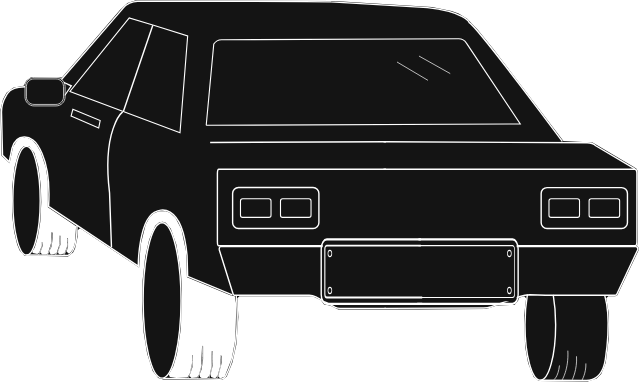
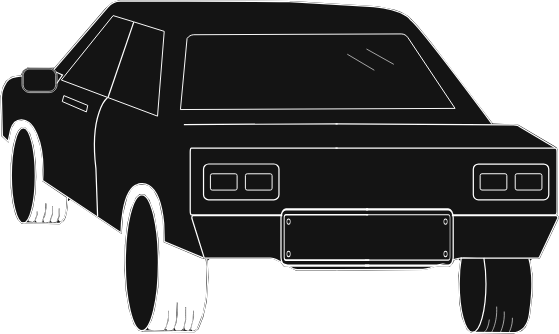
Widen the road again, to where the frame stops it (#151)
22% was not enough: the lanes cleared each other by 2% of a car width,
which reads as touching rather than as separate lanes. 45% puts a gap of
about a quarter of a car width between them.

That is very near the ceiling. The centre lane's own markings reach the
bottom corners of the frame at 48%, so past that the road is drawn wider
than it can be seen and the near end of it is cut off. 45% leaves 12
units of margin.

What it costs, all of it on the outer lanes: a side car now has to stop
at 50% down the frame rather than 54% to stay whole, it is held back for
40% of its loop rather than 34%, and its plate goes from 7.0px to 6.2px
at a 375px section. The centre car, its plate and the roadside are
untouched.

Claude-Session: https://claude.ai/code/session_017ynTvtGuh3qPdfkvciNjhT

diff --git a/css/style.css b/css/style.css
@@ -739,12 +739,12 @@ a {
 @keyframes hwCar_centre{0.0000%{transform:scale(1.00000);opacity:0.000;}4.1667%{transform:scale(0.90882);opacity:0.833;}8.3333%{transform:scale(0.82595);opacity:1.000;}12.5000%{transform:scale(0.75063);opacity:1.000;}16.6667%{transform:scale(0.68219);opacity:1.000;}20.8333%{transform:scale(0.61999);opacity:1.000;}25.0000%{transform:scale(0.56345);opacity:1.000;}29.1667%{transform:scale(0.51208);opacity:1.000;}33.3333%{transform:scale(0.46538);opacity:1.000;}37.5000%{transform:scale(0.42295);opacity:1.000;}41.6667%{transform:scale(0.38438);opacity:1.000;}45.8333%{transform:scale(0.34933);opacity:1.000;}50.0000%{transform:scale(0.31748);opacity:1.000;}54.1667%{transform:scale(0.28853);opacity:1.000;}58.3333%{transform:scale(0.26222);opacity:1.000;}62.5000%{transform:scale(0.23831);opacity:1.000;}66.6667%{transform:scale(0.21658);opacity:0.957;}70.8333%{transform:scale(0.19683);opacity:0.794;}75.0000%{transform:scale(0.17888);opacity:0.646;}79.1667%{transform:scale(0.16257);opacity:0.511;}83.3333%{transform:scale(0.14775);opacity:0.388;}87.5000%{transform:scale(0.13428);opacity:0.277;}91.6667%{transform:scale(0.12203);opacity:0.176;}95.8333%{transform:scale(0.11091);opacity:0.084;}100.0000%{transform:scale(0.10079);opacity:0.000;}}
 .highway__car--centre{left:19.5587%;top:66.7638%;width:61.0573%;height:33.3225%;transform-origin:50.127% -153.810%;background-image:url("../assets/images/hw-car-centre.png");}
 .highway__car--centre .highway__plate{left:31.683%;top:62.098%;width:36.888%;height:7.021%;font-size:2.3962cqw;}
-@keyframes hwCar_left{0.0000%{transform:scale(2.17092);opacity:0.000;}4.1667%{transform:scale(1.97296);opacity:0.000;}8.3333%{transform:scale(1.79306);opacity:0.000;}12.5000%{transform:scale(1.62957);opacity:0.000;}16.6667%{transform:scale(1.48098);opacity:0.000;}20.8333%{transform:scale(1.34594);opacity:0.000;}25.0000%{transform:scale(1.22321);opacity:0.000;}29.1667%{transform:scale(1.11167);opacity:0.000;}33.3333%{transform:scale(1.01031);opacity:0.000;}37.5000%{transform:scale(0.91818);opacity:0.744;}41.6667%{transform:scale(0.83446);opacity:1.000;}45.8333%{transform:scale(0.75837);opacity:1.000;}50.0000%{transform:scale(0.68922);opacity:1.000;}54.1667%{transform:scale(0.62637);opacity:1.000;}58.3333%{transform:scale(0.56926);opacity:1.000;}62.5000%{transform:scale(0.51735);opacity:1.000;}66.6667%{transform:scale(0.47018);opacity:0.957;}70.8333%{transform:scale(0.42731);opacity:0.794;}75.0000%{transform:scale(0.38834);opacity:0.646;}79.1667%{transform:scale(0.35293);opacity:0.511;}83.3333%{transform:scale(0.32075);opacity:0.388;}87.5000%{transform:scale(0.29150);opacity:0.277;}91.6667%{transform:scale(0.26492);opacity:0.176;}95.8333%{transform:scale(0.24077);opacity:0.084;}100.0000%{transform:scale(0.21881);opacity:0.000;}}
-.highway__car--left{left:-0.0564%;top:39.0386%;width:35.7853%;height:15.4314%;transform-origin:140.341% -152.470%;background-image:url("../assets/images/hw-car-left.png");}
-.highway__car--left .highway__plate{left:19.890%;top:64.782%;width:28.992%;height:11.887%;font-size:1.8787cqw;}
-@keyframes hwCar_right{0.0000%{transform:scale(2.18316);opacity:0.000;}4.1667%{transform:scale(1.98410);opacity:0.000;}8.3333%{transform:scale(1.80318);opacity:0.000;}12.5000%{transform:scale(1.63876);opacity:0.000;}16.6667%{transform:scale(1.48933);opacity:0.000;}20.8333%{transform:scale(1.35353);opacity:0.000;}25.0000%{transform:scale(1.23011);opacity:0.000;}29.1667%{transform:scale(1.11794);opacity:0.000;}33.3333%{transform:scale(1.01601);opacity:0.000;}37.5000%{transform:scale(0.92336);opacity:0.695;}41.6667%{transform:scale(0.83917);opacity:1.000;}45.8333%{transform:scale(0.76265);opacity:1.000;}50.0000%{transform:scale(0.69311);opacity:1.000;}54.1667%{transform:scale(0.62991);opacity:1.000;}58.3333%{transform:scale(0.57247);opacity:1.000;}62.5000%{transform:scale(0.52027);opacity:1.000;}66.6667%{transform:scale(0.47283);opacity:0.957;}70.8333%{transform:scale(0.42972);opacity:0.794;}75.0000%{transform:scale(0.39053);opacity:0.646;}79.1667%{transform:scale(0.35492);opacity:0.511;}83.3333%{transform:scale(0.32256);opacity:0.388;}87.5000%{transform:scale(0.29315);opacity:0.277;}91.6667%{transform:scale(0.26642);opacity:0.176;}95.8333%{transform:scale(0.24213);opacity:0.084;}100.0000%{transform:scale(0.22005);opacity:0.000;}}
-.highway__car--right{left:64.5467%;top:38.9149%;width:35.5093%;height:15.3365%;transform-origin:-40.501% -152.607%;background-image:url("../assets/images/hw-car-right.png");}
-.highway__car--right .highway__plate{left:51.151%;top:64.650%;width:29.054%;height:11.887%;font-size:1.8671cqw;}
+@keyframes hwCar_left{0.0000%{transform:scale(2.48026);opacity:0.000;}4.1667%{transform:scale(2.25410);opacity:0.000;}8.3333%{transform:scale(2.04856);opacity:0.000;}12.5000%{transform:scale(1.86177);opacity:0.000;}16.6667%{transform:scale(1.69200);opacity:0.000;}20.8333%{transform:scale(1.53772);opacity:0.000;}25.0000%{transform:scale(1.39751);opacity:0.000;}29.1667%{transform:scale(1.27008);opacity:0.000;}33.3333%{transform:scale(1.15427);opacity:0.000;}37.5000%{transform:scale(1.04902);opacity:0.000;}41.6667%{transform:scale(0.95336);opacity:0.416;}45.8333%{transform:scale(0.86643);opacity:1.000;}50.0000%{transform:scale(0.78743);opacity:1.000;}54.1667%{transform:scale(0.71563);opacity:1.000;}58.3333%{transform:scale(0.65038);opacity:1.000;}62.5000%{transform:scale(0.59107);opacity:1.000;}66.6667%{transform:scale(0.53718);opacity:0.957;}70.8333%{transform:scale(0.48819);opacity:0.794;}75.0000%{transform:scale(0.44368);opacity:0.646;}79.1667%{transform:scale(0.40322);opacity:0.511;}83.3333%{transform:scale(0.36646);opacity:0.388;}87.5000%{transform:scale(0.33304);opacity:0.277;}91.6667%{transform:scale(0.30267);opacity:0.176;}95.8333%{transform:scale(0.27507);opacity:0.084;}100.0000%{transform:scale(0.24999);opacity:0.000;}}
+.highway__car--left{left:-0.0493%;top:36.1041%;width:31.3222%;height:13.5068%;transform-origin:160.316% -152.470%;background-image:url("../assets/images/hw-car-left.png");}
+.highway__car--left .highway__plate{left:19.890%;top:64.782%;width:28.992%;height:11.887%;font-size:1.6444cqw;}
+@keyframes hwCar_right{0.0000%{transform:scale(2.49455);opacity:0.000;}4.1667%{transform:scale(2.26709);opacity:0.000;}8.3333%{transform:scale(2.06037);opacity:0.000;}12.5000%{transform:scale(1.87250);opacity:0.000;}16.6667%{transform:scale(1.70176);opacity:0.000;}20.8333%{transform:scale(1.54659);opacity:0.000;}25.0000%{transform:scale(1.40556);opacity:0.000;}29.1667%{transform:scale(1.27740);opacity:0.000;}33.3333%{transform:scale(1.16092);opacity:0.000;}37.5000%{transform:scale(1.05506);opacity:0.000;}41.6667%{transform:scale(0.95886);opacity:0.366;}45.8333%{transform:scale(0.87143);opacity:1.000;}50.0000%{transform:scale(0.79197);opacity:1.000;}54.1667%{transform:scale(0.71975);opacity:1.000;}58.3333%{transform:scale(0.65412);opacity:1.000;}62.5000%{transform:scale(0.59448);opacity:1.000;}66.6667%{transform:scale(0.54027);opacity:0.957;}70.8333%{transform:scale(0.49101);opacity:0.794;}75.0000%{transform:scale(0.44624);opacity:0.646;}79.1667%{transform:scale(0.40555);opacity:0.511;}83.3333%{transform:scale(0.36857);opacity:0.388;}87.5000%{transform:scale(0.33496);opacity:0.277;}91.6667%{transform:scale(0.30442);opacity:0.176;}95.8333%{transform:scale(0.27666);opacity:0.084;}100.0000%{transform:scale(0.25143);opacity:0.000;}}
+.highway__car--right{left:68.9723%;top:35.9934%;width:31.0767%;height:13.4221%;transform-origin:-60.519% -152.607%;background-image:url("../assets/images/hw-car-right.png");}
+.highway__car--right .highway__plate{left:51.151%;top:64.650%;width:29.054%;height:11.887%;font-size:1.6341cqw;}
 .hw-move{transform-box:view-box;transform-origin:638.40px 273.20px;}
 .hw-dash{fill:#fff;}
 @media (prefers-reduced-motion: no-preference) {

diff --git a/index.html b/index.html
@@ -198,14 +198,14 @@
           <div class="highway__car highway__car--centre" style="transform:scale(0.56345);opacity:1.000;z-index:18;animation-delay:-2.2500s,-2.2500s"><span class="highway__plate"><span style="transform:scaleX(1.000)">DESIGNER</span></span></div>
           <div class="highway__car highway__car--centre" style="transform:scale(0.31748);opacity:1.000;z-index:12;animation-delay:-4.5000s,-4.5000s"><span class="highway__plate"><span style="transform:scaleX(1.000)">PRODUCER</span></span></div>
           <div class="highway__car highway__car--centre" style="transform:scale(0.17888);opacity:0.646;z-index:6;animation-delay:-6.7500s,-6.7500s"><span class="highway__plate"><span style="transform:scaleX(1.000)">INVESTOR</span></span></div>
-          <div class="highway__car highway__car--left" style="transform:scale(1.79306);opacity:0.000;z-index:22;animation-delay:-0.7500s,-0.7500s"><span class="highway__plate"><span style="transform:scaleX(1.000)">VENUE</span></span></div>
-          <div class="highway__car highway__car--left" style="transform:scale(1.01031);opacity:0.000;z-index:16;animation-delay:-3.0000s,-3.0000s"><span class="highway__plate"><span style="transform:scaleX(0.690)">PHOTOGRAPHER</span></span></div>
-          <div class="highway__car highway__car--left" style="transform:scale(0.56926);opacity:1.000;z-index:10;animation-delay:-5.2500s,-5.2500s"><span class="highway__plate"><span style="transform:scaleX(1.000)">STYLIST</span></span></div>
-          <div class="highway__car highway__car--left" style="transform:scale(0.32075);opacity:0.388;z-index:4;animation-delay:-7.5000s,-7.5000s"><span class="highway__plate"><span style="transform:scaleX(0.690)">MANUFACTURER</span></span></div>
-          <div class="highway__car highway__car--right" style="transform:scale(1.48933);opacity:0.000;z-index:20;animation-delay:-1.5000s,-1.5000s"><span class="highway__plate"><span style="transform:scaleX(1.000)">CREATOR</span></span></div>
-          <div class="highway__car highway__car--right" style="transform:scale(0.83917);opacity:1.000;z-index:14;animation-delay:-3.7500s,-3.7500s"><span class="highway__plate"><span style="transform:scaleX(1.000)">DIRECTOR</span></span></div>
-          <div class="highway__car highway__car--right" style="transform:scale(0.47283);opacity:0.957;z-index:8;animation-delay:-6.0000s,-6.0000s"><span class="highway__plate"><span style="transform:scaleX(1.000)">ENGINEER</span></span></div>
-          <div class="highway__car highway__car--right" style="transform:scale(0.26642);opacity:0.176;z-index:2;animation-delay:-8.2500s,-8.2500s"><span class="highway__plate"><span style="transform:scaleX(1.000)">CURATOR</span></span></div>
+          <div class="highway__car highway__car--left" style="transform:scale(2.04856);opacity:0.000;z-index:22;animation-delay:-0.7500s,-0.7500s"><span class="highway__plate"><span style="transform:scaleX(1.000)">VENUE</span></span></div>
+          <div class="highway__car highway__car--left" style="transform:scale(1.15427);opacity:0.000;z-index:16;animation-delay:-3.0000s,-3.0000s"><span class="highway__plate"><span style="transform:scaleX(0.690)">PHOTOGRAPHER</span></span></div>
+          <div class="highway__car highway__car--left" style="transform:scale(0.65038);opacity:1.000;z-index:10;animation-delay:-5.2500s,-5.2500s"><span class="highway__plate"><span style="transform:scaleX(1.000)">STYLIST</span></span></div>
+          <div class="highway__car highway__car--left" style="transform:scale(0.36646);opacity:0.388;z-index:4;animation-delay:-7.5000s,-7.5000s"><span class="highway__plate"><span style="transform:scaleX(0.690)">MANUFACTURER</span></span></div>
+          <div class="highway__car highway__car--right" style="transform:scale(1.70176);opacity:0.000;z-index:20;animation-delay:-1.5000s,-1.5000s"><span class="highway__plate"><span style="transform:scaleX(1.000)">CREATOR</span></span></div>
+          <div class="highway__car highway__car--right" style="transform:scale(0.95886);opacity:0.366;z-index:14;animation-delay:-3.7500s,-3.7500s"><span class="highway__plate"><span style="transform:scaleX(1.000)">DIRECTOR</span></span></div>
+          <div class="highway__car highway__car--right" style="transform:scale(0.54027);opacity:0.957;z-index:8;animation-delay:-6.0000s,-6.0000s"><span class="highway__plate"><span style="transform:scaleX(1.000)">ENGINEER</span></span></div>
+          <div class="highway__car highway__car--right" style="transform:scale(0.30442);opacity:0.176;z-index:2;animation-delay:-8.2500s,-8.2500s"><span class="highway__plate"><span style="transform:scaleX(1.000)">CURATOR</span></span></div>
         </div>
       </div>
     </section>

diff --git a/_includes/highway-svg.html b/_includes/highway-svg.html
@@ -1,4 +1,4 @@
-<svg class="highway__art" viewBox="0 0 1272.6 1761.4" role="img" aria-label="A three-lane desert highway seen from behind, cars receding toward the horizon with licence plates naming the roles a creative project needs"><defs><g id="hw-post"><polyline class="st7" points="1251.7 575.2 1251.5 616.2 1241.2 610.1 1241.8 569.8"/><polyline class="st7" points="1251.7 616.3 1264.8 609.6 1264.8 582.2"/></g><polygon id="hw-dash-l" class="hw-dash" points="105.71,1761.40 123.57,1761.40 142.54,1706.56 125.34,1706.56"/><polygon id="hw-dash-r" class="hw-dash" points="1153.23,1761.40 1171.09,1761.40 1151.46,1706.56 1134.26,1706.56"/><g id="hw-cactus-l"><g>
+<svg class="highway__art" viewBox="0 0 1272.6 1761.4" role="img" aria-label="A three-lane desert highway seen from behind, cars receding toward the horizon with licence plates naming the roles a creative project needs"><defs><g id="hw-post"><polyline class="st7" points="1251.7 575.2 1251.5 616.2 1241.2 610.1 1241.8 569.8"/><polyline class="st7" points="1251.7 616.3 1264.8 609.6 1264.8 582.2"/></g><polygon id="hw-dash-l" class="hw-dash" points="6.97,1761.40 24.83,1761.40 47.44,1706.56 30.24,1706.56"/><polygon id="hw-dash-r" class="hw-dash" points="1251.97,1761.40 1269.83,1761.40 1246.56,1706.56 1229.36,1706.56"/><g id="hw-cactus-l"><g>
     <g>
       <path class="st7" d="M76.3,380c-4.7-.1-8.2,4-8.2,8.7l-.2,30.6c0,5-2.4,11.2-6.9,13.2h0s-.6-56.4-.6-56.4c0-6.5-5.5-12.3-12.2-12.9-6.7-.6-12.3,4.4-12.3,11,0,0,1.3,66,.6,66l.3,6.4c-3.2-2.6-5-4.7-6.3-16.6l-1.5-16.1c-1-8-4-10.5-9.8-10-3.5.3-5.6,3.2-6.7,6.8s-.4,6.7-.2,11.9c.2,6.8,1.3,13.5,3.1,20.1h0c1.8,8.6,10.6,14.2,18,14.4,0,0,2.6.2,3.4,0l1.6,35.2c.2,10.1,3.4,12.4,10.2,12.4s10.6-1.4,11.4-11.4v-50c.1,0,4.3.2,4.3.2,11.4-.6,17.8-8.5,18.3-17l1.6-34.8c0-5.3-1.6-11.5-7.9-11.6Z"/>
       <path class="st10" d="M79.1,383.5s5.4,37.3-3.5,49.9c0,0-3.2,6.3-14.1,7.1"/>
